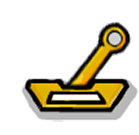
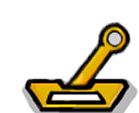
Graphic options added to activate lever and fan

diff --git a/src/main/java/it/unibo/sampleapp/view/impl/LevelView.java b/src/main/java/it/unibo/sampleapp/view/impl/LevelView.java
@@ -18,6 +18,7 @@ import it.unibo.sampleapp.model.object.api.Fan;
 import it.unibo.sampleapp.model.object.api.GameObject;
 import it.unibo.sampleapp.model.object.api.Gem;
 import it.unibo.sampleapp.model.object.api.Hazard;
+import it.unibo.sampleapp.model.object.api.Lever;
 import it.unibo.sampleapp.model.object.api.Player;
 
 /**
@@ -45,8 +46,10 @@ public class LevelView extends JPanel {
     private transient Image gemFireImg;
     private transient Image gemWaterImg;
     private transient Image fanImg;
+    private transient Image fanImg1;
     private transient Image pauseImg;
     private transient Image leverImg;
+    private transient Image leverOnImg;
     private transient Image fireBoyRight;
     private transient Image fireBoyLeft;
     private transient Image waterGirlRight;
@@ -54,6 +57,8 @@ public class LevelView extends JPanel {
     private transient List<Player> players;
     private transient List<GameObject> objects;
 
+    private transient int fanFrame = 0;
+    private transient int fanTick = 0;
     private transient Runnable pauserRunnable;
 
     /**
@@ -94,7 +99,9 @@ public class LevelView extends JPanel {
         gemFireImg = new ImageIcon(getClass().getClassLoader().getResource("img/FireGem.png")).getImage();
         gemWaterImg = new ImageIcon(getClass().getClassLoader().getResource("img/WaterGem.png")).getImage();
         fanImg = new ImageIcon(getClass().getClassLoader().getResource("img/Fan.png")).getImage();
+        fanImg1 = new ImageIcon(getClass().getClassLoader().getResource("img/fan2.gif")).getImage();
         leverImg = new ImageIcon(getClass().getClassLoader().getResource("img/LeverOff.png")).getImage();
+        leverOnImg = new ImageIcon(getClass().getClassLoader().getResource("img/LeverOn.png")).getImage();
         pauseImg = new ImageIcon(getClass().getClassLoader().getResource("img/PauseButton.png")).getImage();
         fireBoyRight = new ImageIcon(getClass().getClassLoader().getResource("img/FireBoyR.gif")).getImage();
         fireBoyLeft = new ImageIcon(getClass().getClassLoader().getResource("img/FireBoyL.gif")).getImage();
@@ -152,14 +159,18 @@ public class LevelView extends JPanel {
                     obj.getHeight(),
                     this
                 );
-                case "LeverImpl" -> g.drawImage(
-                    leverImg,
-                    (int) Math.round(obj.getPosition().getX()),
-                    (int) Math.round(obj.getPosition().getY()),
-                    obj.getWidth(),
-                    obj.getHeight(),
-                    this
-                );
+                case "LeverImpl" -> {
+                    final Lever lever = (Lever) obj;
+                    final Image img = lever.isActive() ? leverOnImg : leverImg;
+                    g.drawImage(
+                        img,
+                        (int) Math.round(lever.getPosition().getX()),
+                        (int) Math.round(lever.getPosition().getY()),
+                        lever.getWidth(),
+                        lever.getHeight(),
+                        this
+                    );
+                }
                 case "DoorImpl" -> {
                     final Door door = (Door) obj;
                     final Image img = switch (door.getType()) {
@@ -208,7 +219,7 @@ public class LevelView extends JPanel {
                 }
                 case "FanImpl" -> {
                     final Fan fan = (Fan) obj;
-                    final Image img = fanImg;
+                    final Image img = fan.isActive() ? fanImg1 : fanImg;
                     g.drawImage(
                         img, 
                         (int) Math.round(fan.getPosition().getX()),
